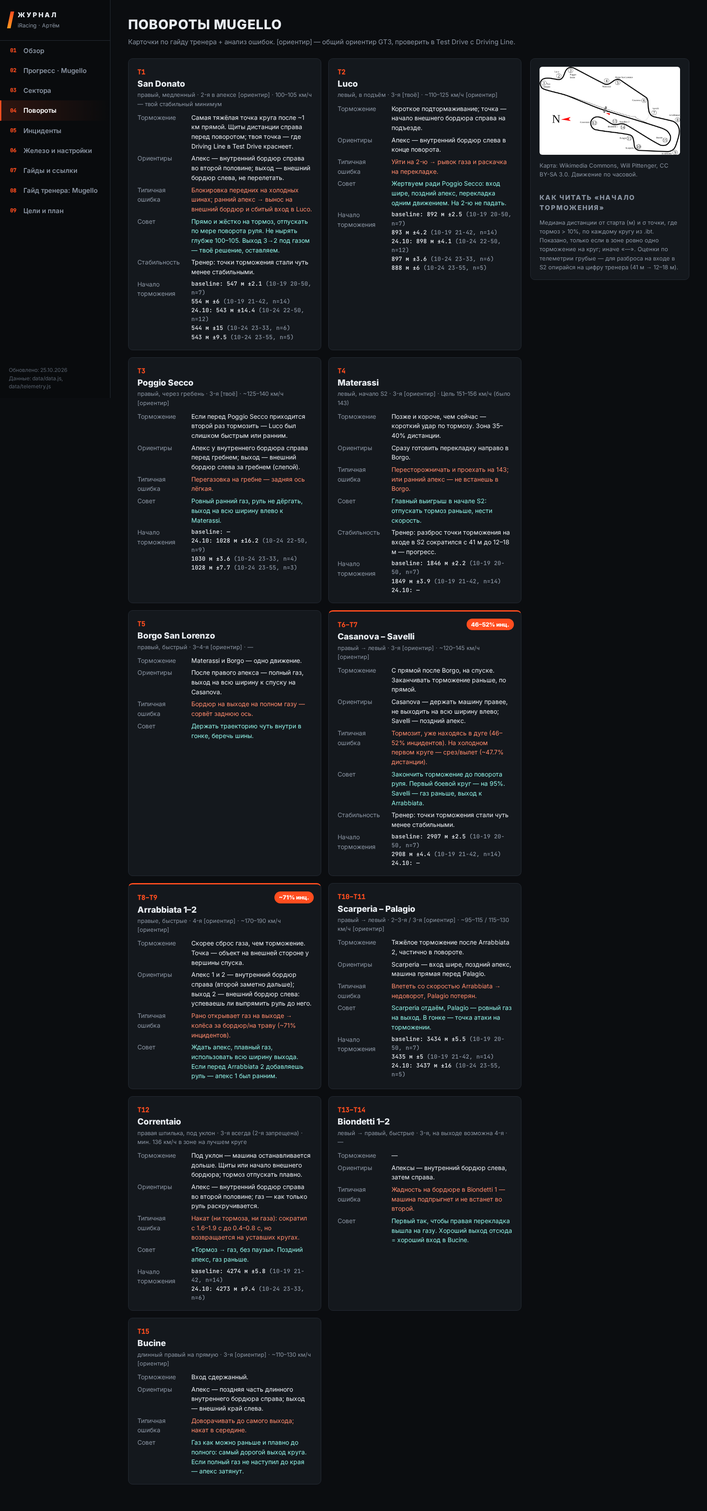
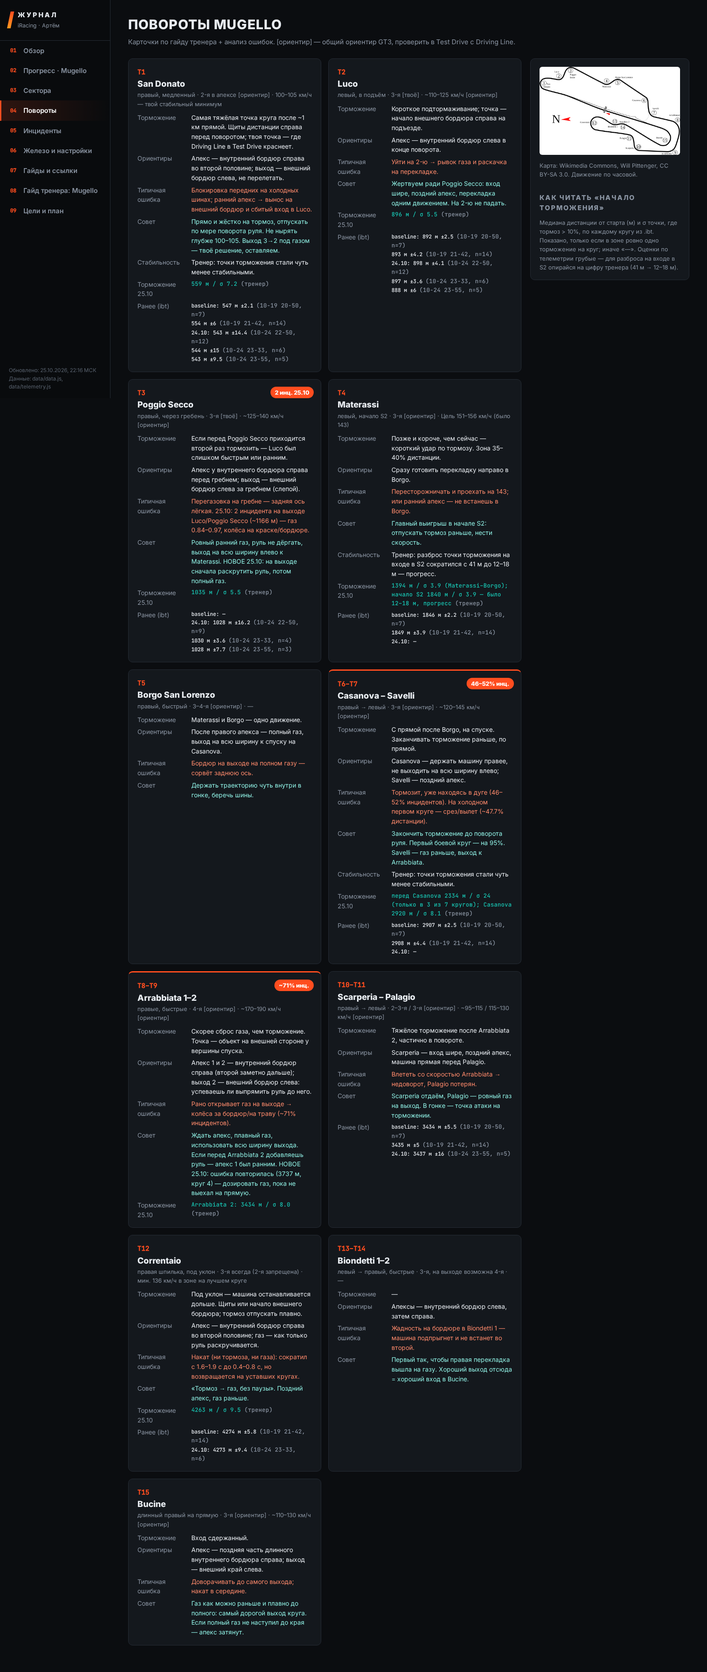
Сессия 25.10.2026: Mugello, данные тренера + телеметрия; to-do, FFB-предупреждение

diff --git a/data/data.js b/data/data.js
@@ -1,6 +1,6 @@
 // Основные данные журнала. Редактируй этот файл, чтобы обновить сайт. Время круга — строки "м:сс.ммм".
 window.JOURNAL = {
-  updated: "25.10.2026",
+  updated: "25.10.2026, 22:16 МСК",
   driver: { name: "Артём", sim: "iRacing (Steam)", simNote: "Пробовал ACC — не понравился." },
   car: "Mercedes-AMG GT3 Evo",
   series: "GT3 Regional Tour Europe (Fixed)",
@@ -25,10 +25,19 @@ window.JOURNAL = {
       { date: "19.10", drivingLine: false, best: "1:52.333", avg: "1:54.48", sigma: null, inc: 6 },
       { date: "20.10", drivingLine: false, best: "1:53.350", avg: "1:54.52", sigma: 0.59, inc: 6 },
       { date: "23.10", drivingLine: false, best: "1:51.967", avg: "1:53.46", sigma: null, inc: 5 },
-      { date: "24.10", drivingLine: false, best: "1:50.950", avg: "1:52.22", sigma: 0.71, inc: 0, note: "чистая серия 5 кругов, 0 инцидентов в серии" }
+      { date: "24.10", drivingLine: false, best: "1:50.950", avg: "1:52.22", sigma: 0.71, inc: 0, note: "чистая серия 5 кругов, 0 инцидентов в серии" },
+      { date: "25.10", drivingLine: false, lineLabel: "без линии (вероятно)", best: "1:51.117", bestClean: "1:52.317", avg: "1:53.21", sigma: 0.74, avgAll: "1:52.48", sigmaAll: 1.06, inc: 3, setup: "baseline.sto",
+        note: "лучший круг с инцидентом; лучший чистый 1:52.317; среднее по 4 чистым 1:53.21 (σ 0.74), по всем 7 — 1:52.48 (σ 1.06)",
+        laps: [ {t:"1:54.150",inc:false},{t:"1:53.700",inc:false},{t:"1:52.100",inc:true},{t:"1:51.267",inc:true},{t:"1:52.683",inc:false},{t:"1:52.317",inc:false},{t:"1:51.117",inc:true} ],
+        bestLapSectors: [39.933, 32.683, 38.500], bestSectors: [39.933, 32.250, 38.500], ideal: "1:50.683" }
     ]
   },
   incidents: {
+    session2510: [ // 25.10.2026, 3 инцидента по 1x
+      { where: "Выход Luco / Poggio Secco", dist: "~1166 м", laps: "круги 3 и 7", count: 2 },
+      { where: "Выход Arrabbiata", dist: "3737 м", laps: "круг 4", count: 1 }
+    ],
+    session2510Note: "Все — на газу 0.84–0.97, колёса на краске или бордюре.",
     summary: "Почти все инциденты — колёса за бордюр или на траву, а не потеря задней оси.",
     byCorner: [ // % инцидентов
       { corner: "Arrabbiata", pct: 71, pctLabel: "~71%", why: "Рано открывает газ на выходе", fix: "Ждать апекс, плавный газ, использовать всю ширину выхода" },
@@ -36,28 +45,38 @@ window.JOURNAL = {
     ],
     pctNote: "Проценты посчитаны тренером по разным выборкам сессий, поэтому в сумме дают больше 100%. Для Casanova на графике — середина диапазона 46–52%."
   },
+  latest: { date: "25.10.2026, 22:16 МСК", track: "Mugello", session: "Offline Testing", setup: "baseline.sto", line: "без линии (вероятно — по телеметрии не определить)" },
+  todo: [ // открытые задачи от тренера
+    { text: "Сила руля в iRacing: сейчас 12.05 Нм, клиппинг 50% — поставить 28–30 Нм (совет пока не применён)", warn: true },
+    { text: "Сетап: ездить на fixed.sto вместо baseline.sto", warn: true },
+    { text: "Выход из Poggio Secco: сначала раскрутить руль, потом полный газ" },
+    { text: "Arrabbiata: ошибка повторилась — дозировать газ, пока не выехал на прямую" },
+    { text: "S2 гуляет 32.25–33.5 с; стабильные 32.3 дадут ~0.7 с на круге" }
+  ],
+  ffbStatus: { date: "25.10.2026", strengthNm: 12.05, clippingPct: 50, applied: false },
   progressNotes: [
+    { type: "good", text: "25.10: начало S2 — разброс точки торможения 3.9 м (было 12–18 м, а ещё раньше 41 м). Прогресс." },
     { type: "good", text: "Вход в сектор 2: разброс точки торможения сократился с 41 м до 12–18 м." },
     { type: "warn", text: "San Donato и Casanova: точки торможения стали чуть менее стабильными." }
   ],
   corners: [ // карточки поворотов; turn = номер по официальной карте
-    { turn: "T1", name: "San Donato", dir: "правый, медленный", gear: "2-я в апексе [ориентир]", speed: "100–105 км/ч — твой стабильный минимум",
+    { turn: "T1", name: "San Donato", brake2510: "559 м / σ 7.2", dir: "правый, медленный", gear: "2-я в апексе [ориентир]", speed: "100–105 км/ч — твой стабильный минимум",
       braking: "Самая тяжёлая точка круга после ~1 км прямой. Щиты дистанции справа перед поворотом; твоя точка — где Driving Line в Test Drive краснеет.",
       ref: "Апекс — внутренний бордюр справа во второй половине; выход — внешний бордюр слева, не перелетать.",
       mistake: "Блокировка передних на холодных шинах; ранний апекс → вынос на внешний бордюр и сбитый вход в Luco.",
       advice: "Прямо и жёстко на тормоз, отпускать по мере поворота руля. Не нырять глубже 100–105. Выход 3→2 под газом — твоё решение, оставляем.",
       stability: "Тренер: точки торможения стали чуть менее стабильными.", tele: "San Donato", inc: null },
-    { turn: "T2", name: "Luco", dir: "левый, в подъём", gear: "3-я [твоё]", speed: "~110–125 км/ч [ориентир]",
+    { turn: "T2", name: "Luco", brake2510: "896 м / σ 5.5", dir: "левый, в подъём", gear: "3-я [твоё]", speed: "~110–125 км/ч [ориентир]",
       braking: "Короткое подтормаживание; точка — начало внешнего бордюра справа на подъезде.",
       ref: "Апекс — внутренний бордюр слева в конце поворота.",
       mistake: "Уйти на 2-ю → рывок газа и раскачка на перекладке.",
       advice: "Жертвуем ради Poggio Secco: вход шире, поздний апекс, перекладка одним движением. На 2-ю не падать.", tele: "Luco" },
-    { turn: "T3", name: "Poggio Secco", dir: "правый, через гребень", gear: "3-я [твоё]", speed: "~125–140 км/ч [ориентир]",
+    { turn: "T3", name: "Poggio Secco", brake2510: "1035 м / σ 5.5", dir: "правый, через гребень", gear: "3-я [твоё]", speed: "~125–140 км/ч [ориентир]",
       braking: "Если перед Poggio Secco приходится второй раз тормозить — Luco был слишком быстрым или ранним.",
       ref: "Апекс у внутреннего бордюра справа перед гребнем; выход — внешний бордюр слева за гребнем (слепой).",
-      mistake: "Перегазовка на гребне — задняя ось лёгкая.",
-      advice: "Ровный ранний газ, руль не дёргать, выход на всю ширину влево к Materassi.", tele: "Poggio Secco" },
-    { turn: "T4", name: "Materassi", dir: "левый, начало S2", gear: "3-я [ориентир]", speed: "Цель 151–156 км/ч (было 143)",
+      mistake: "Перегазовка на гребне — задняя ось лёгкая. 25.10: 2 инцидента на выходе Luco/Poggio Secco (~1166 м) — газ 0.84–0.97, колёса на краске/бордюре.",
+      advice: "Ровный ранний газ, руль не дёргать, выход на всю ширину влево к Materassi. НОВОЕ 25.10: на выходе сначала раскрутить руль, потом полный газ.", inc2510: "2 инц. 25.10", tele: "Poggio Secco" },
+    { turn: "T4", name: "Materassi", brake2510: "1394 м / σ 3.9 (Materassi–Borgo); начало S2 1840 м / σ 3.9 — было 12–18 м, прогресс", dir: "левый, начало S2", gear: "3-я [ориентир]", speed: "Цель 151–156 км/ч (было 143)",
       braking: "Позже и короче, чем сейчас — короткий удар по тормозу. Зона 35–40% дистанции.",
       ref: "Сразу готовить перекладку направо в Borgo.",
       mistake: "Пересторожничать и проехать на 143; или ранний апекс — не встанешь в Borgo.",
@@ -66,23 +85,23 @@ window.JOURNAL = {
     { turn: "T5", name: "Borgo San Lorenzo", dir: "правый, быстрый", gear: "3–4-я [ориентир]", speed: "—",
       braking: "Materassi и Borgo — одно движение.", ref: "После правого апекса — полный газ, выход на всю ширину к спуску на Casanova.",
       mistake: "Бордюр на выходе на полном газу — сорвёт заднюю ось.", advice: "Держать траекторию чуть внутри в гонке, беречь шины." },
-    { turn: "T6–T7", name: "Casanova – Savelli", dir: "правый → левый", gear: "3-я [ориентир]", speed: "~120–145 км/ч [ориентир]",
+    { turn: "T6–T7", name: "Casanova – Savelli", brake2510: "перед Casanova 2334 м / σ 24 (только в 3 из 7 кругов); Casanova 2920 м / σ 8.1", dir: "правый → левый", gear: "3-я [ориентир]", speed: "~120–145 км/ч [ориентир]",
       braking: "С прямой после Borgo, на спуске. Заканчивать торможение раньше, по прямой.",
       ref: "Casanova — держать машину правее, не выходить на всю ширину влево; Savelli — поздний апекс.",
       mistake: "Тормозит, уже находясь в дуге (46–52% инцидентов). На холодном первом круге — срез/вылет (~47.7% дистанции).",
       advice: "Закончить торможение до поворота руля. Первый боевой круг — на 95%. Savelli — газ раньше, выход к Arrabbiata.",
       stability: "Тренер: точки торможения стали чуть менее стабильными.", tele: "Casanova", inc: "46–52%" },
-    { turn: "T8–T9", name: "Arrabbiata 1–2", dir: "правые, быстрые", gear: "4-я [ориентир]", speed: "~170–190 км/ч [ориентир]",
+    { turn: "T8–T9", name: "Arrabbiata 1–2", brake2510: "Arrabbiata 2: 3434 м / σ 8.0", dir: "правые, быстрые", gear: "4-я [ориентир]", speed: "~170–190 км/ч [ориентир]",
       braking: "Скорее сброс газа, чем торможение. Точка — объект на внешней стороне у вершины спуска.",
       ref: "Апекс 1 и 2 — внутренний бордюр справа (второй заметно дальше); выход 2 — внешний бордюр слева: успеваешь ли выпрямить руль до него.",
       mistake: "Рано открывает газ на выходе → колёса за бордюр/на траву (~71% инцидентов).",
-      advice: "Ждать апекс, плавный газ, использовать всю ширину выхода. Если перед Arrabbiata 2 добавляешь руль — апекс 1 был ранним.", inc: "~71%" },
+      advice: "Ждать апекс, плавный газ, использовать всю ширину выхода. Если перед Arrabbiata 2 добавляешь руль — апекс 1 был ранним. НОВОЕ 25.10: ошибка повторилась (3737 м, круг 4) — дозировать газ, пока не выехал на прямую.", inc: "~71%" },
     { turn: "T10–T11", name: "Scarperia – Palagio", dir: "правый → левый", gear: "2–3-я / 3-я [ориентир]", speed: "~95–115 / 115–130 км/ч [ориентир]",
       braking: "Тяжёлое торможение после Arrabbiata 2, частично в повороте.",
       ref: "Scarperia — вход шире, поздний апекс, машина прямая перед Palagio.",
       mistake: "Влететь со скоростью Arrabbiata → недоворот, Palagio потерян.",
       advice: "Scarperia отдаём, Palagio — ровный газ на выход. В гонке — точка атаки на торможении.", tele: "Arrabbiata 2 / Scarperia" },
-    { turn: "T12", name: "Correntaio", dir: "правая шпилька, под уклон", gear: "3-я всегда (2-я запрещена)", speed: "мин. 136 км/ч в зоне на лучшем круге",
+    { turn: "T12", name: "Correntaio", brake2510: "4263 м / σ 9.5", dir: "правая шпилька, под уклон", gear: "3-я всегда (2-я запрещена)", speed: "мин. 136 км/ч в зоне на лучшем круге",
       braking: "Под уклон — машина останавливается дольше. Щиты или начало внешнего бордюра; тормоз отпускать плавно.",
       ref: "Апекс — внутренний бордюр справа во второй половине; газ — как только руль раскручивается.",
       mistake: "Накат (ни тормоза, ни газа): сократил с 1.6–1.9 с до 0.4–0.8 с, но возвращается на уставших кругах.",
@@ -125,6 +144,7 @@ window.JOURNAL = {
   ],
   goals: [
     { text: "Выучить ориентиры без Driving Line", status: "now" },
+    { text: "Стабильный S2 ~32.3 с (сейчас 32.25–33.5) — ~0.7 с на круге", status: "now" },
     { text: "Стабильно ~1:49 на Mugello (сериями, а не одним кругом)", status: "next" },
     { text: "Покататься на разных трассах, набраться опыта", status: "now" },
     { text: "Первая гонка в GT3 Europe — без давления (сезон в шиномонтаже, катает мало)", status: "later" },

diff --git a/app.js b/app.js
@@ -23,7 +23,8 @@ overview(){const s=J.stats,c=s.career,ses=J.mugello.sessions,last=ses[ses.length
   <div class="card teal"><div class="k">iRating</div><div class="v">${s.iRating}</div><div class="note">на ${s.date} · ${s.season}</div></div>
   <div class="card teal"><div class="k">Safety Rating</div><div class="v">${s.sr} <small>${s.licenseClass}</small></div><div class="note">ttRating ${s.ttRating} · на ${s.date}</div></div>
  </div>
- <div class="insight">Ключевой вывод: <span>средний чистый круг и стабильность важнее лучшего круга.</span> Последняя сессия (${last.date}): лучший ${last.best}, средний ${last.avg} (σ ${last.sigma}), ${last.inc} инцидентов в чистой серии.</div>
+ <div class="insight">Ключевой вывод: <span>средний чистый круг и стабильность важнее лучшего круга.</span> Последняя сессия (${J.latest.date}, ${J.latest.setup}, ${J.latest.line}): лучший ${last.best} (с инцидентом), лучший чистый ${last.bestClean}, средний чистый ${last.avg} (σ ${last.sigma}), инцидентов ${last.inc}.</div>
+ <h2>To-do от тренера</h2><div class="card">${J.todo.map(t=>`<div class="goal"><span class="dot ${t.warn?'now':'next'}"></span><div style="flex:1">${t.warn?'⚠ ':''}${t.text}</div>${t.warn?'<span class="tag off">не сделано</span>':''}</div>`).join('')}</div>
  <div class="grid g2">
   <div><h2>Лучший круг по трассам</h2><table><tr><th>Трасса</th><th>Лучший</th><th>Примечание</th></tr>
    ${J.bestLaps.map(b=>`<tr><td>${b.track}</td><td class="n">${b.best||'—'}</td><td>${b.best?b.note:'<span class="note">ещё не ездил / данные появятся</span>'}</td></tr>`).join('')}</table></div>
@@ -36,7 +37,7 @@ overview(){const s=J.stats,c=s.career,ses=J.mugello.sessions,last=ses[ses.length
 progress(){const S=J.mugello.sessions;
  app.innerHTML=H('Прогресс · Mugello',`${J.car} · 5191 м · данные тренера`)+`
  <table><tr><th>Дата</th><th>Driving Line</th><th>Лучший круг</th><th>Средний чистый</th><th>σ, с</th><th>Инциденты</th><th>Примечание</th></tr>
- ${S.map(s=>`<tr><td>${s.date}</td><td><span class="tag ${s.drivingLine?'on':'off'}">${s.drivingLine?'с линией':'без линии'}</span></td><td class="n">${s.best}</td><td class="n">${s.avg||'—'}</td><td class="n">${s.sigma??'—'}</td><td class="n">${s.inc??'—'}</td><td class="note">${s.note||''}</td></tr>`).join('')}</table>
+ ${S.map(s=>`<tr><td>${s.date}</td><td><span class="tag ${s.drivingLine?'on':'off'}">${s.lineLabel||(s.drivingLine?'с линией':'без линии')}</span></td><td class="n">${s.best}</td><td class="n">${s.avg||'—'}</td><td class="n">${s.sigma??'—'}</td><td class="n">${s.inc??'—'}</td><td class="note">${s.note||''}</td></tr>`).join('')}</table>
  <h2>Лучший и средний круг по сессиям</h2><div class="chartbox" id="c1"></div>
  <div class="note">Пунктир: baseline с линией ${J.mugello.baseline} и цель ~1:49.000. Чем ниже — тем быстрее.</div>
  <h2>Заметки</h2><ul class="list">${J.progressNotes.map(n=>`<li class="${n.type}">${n.text}</li>`).join('')}</ul>
@@ -45,6 +46,7 @@ progress(){const S=J.mugello.sessions;
  chart(document.getElementById('c1'),{type:'line',data:{labels:L,datasets:[
   {label:'Лучший круг',data:S.map(s=>toS(s.best)),borderColor:'#ff4d1f',backgroundColor:'#ff4d1f',tension:.2,pointRadius:5},
   {label:'Средний чистый',data:S.map(s=>toS(s.avg)),borderColor:'#18c3b1',backgroundColor:'#18c3b1',tension:.2,pointRadius:5,spanGaps:true},
+  {label:'Лучший чистый',data:S.map(s=>toS(s.bestClean)),borderColor:'#b06cff',backgroundColor:'#b06cff',pointRadius:6,showLine:false},
   {label:'Baseline 1:49.250',data:S.map(()=>toS(J.mugello.baseline)),borderColor:'#ffb020',borderDash:[6,6],pointRadius:0},
   {label:'Цель ~1:49',data:S.map(()=>toS(J.mugello.target)),borderColor:'#3ccf6e',borderDash:[2,4],pointRadius:0}]},
   options:{maintainAspectRatio:false,scales:{y:{ticks:{callback:v=>fmt(v,1)}}},plugins:{tooltip:{callbacks:{label:c=>c.dataset.label+': '+fmt(c.parsed.y)}}}}})},
@@ -60,20 +62,21 @@ sectors(){if(!TM||!TM.sessions){app.innerHTML=H('Сектора')+'<div class="p
  chart(document.getElementById('c2'),{type:'bar',data:{labels:L,datasets:[0,1,2].map(k=>({label:'S'+(k+1),data:TM.sessions.map(s=>s.bestLap.sectors[k]),backgroundColor:col[k]}))},options:{maintainAspectRatio:false,scales:{y:{min:30,title:{display:true,text:'секунды'}}}}});
  const b=TM.sessions[0].bestSectors;
  chart(document.getElementById('c3'),{type:'bar',data:{labels:L.slice(1),datasets:[0,1,2].map(k=>({label:'S'+(k+1),data:TM.sessions.slice(1).map(s=>+(s.bestSectors[k]-b[k]).toFixed(3)),backgroundColor:col[k]}))},options:{maintainAspectRatio:false}})},
-corners(){const last=TM?TM.sessions[TM.sessions.length-1]:null,base=TM?TM.sessions[0]:null;
+corners(){const prev=TM?TM.sessions.find(s=>s.name.startsWith('24.10')):null,base=TM?TM.sessions[0]:null;
  const br=(s,z)=>{const a=s&&s.braking[z];return a?a.map(x=>`${x.median_m} м ±${x.sd_m} <span class="note">(${x.file.slice(5,16)}, n=${x.n})</span>`).join('<br>'):'—'};
  app.innerHTML=H('Повороты Mugello','Карточки по гайду тренера + анализ ошибок. [ориентир] — общий ориентир GT3, проверить в Test Drive с Driving Line.')+`
  <div style="display:grid;grid-template-columns:1fr 360px;gap:20px;align-items:start"><div class="grid g2">
- ${J.corners.map(c=>`<div class="card corner ${c.inc?'acc':''}">${c.inc?`<div class="badge">${c.inc} инц.</div>`:''}<span class="t">${c.turn}</span><h3>${c.name}</h3><div class="d">${c.dir} · ${c.gear} · ${c.speed}</div>
+ ${J.corners.map(c=>`<div class="card corner ${c.inc?'acc':''}">${c.inc||c.inc2510?`<div class="badge">${c.inc?c.inc+' инц.':c.inc2510}</div>`:''}<span class="t">${c.turn}</span><h3>${c.name}</h3><div class="d">${c.dir} · ${c.gear} · ${c.speed}</div>
   <dl><dt>Торможение</dt><dd>${c.braking}</dd><dt>Ориентиры</dt><dd>${c.ref}</dd><dt>Типичная ошибка</dt><dd class="err">${c.mistake}</dd><dt>Совет</dt><dd class="adv">${c.advice}</dd>
   ${c.stability?`<dt>Стабильность</dt><dd>${c.stability}</dd>`:''}
-  ${c.tele?`<dt>Начало торможения</dt><dd class="mono" style="font-size:13px">baseline: ${br(base,c.tele)}<br>24.10: ${br(last,c.tele)}</dd>`:''}</dl></div>`).join('')}
+  ${c.brake2510?`<dt>Торможение 25.10</dt><dd class="mono" style="font-size:13px;color:#18c3b1">${c.brake2510} <span class="note">(тренер)</span></dd>`:''}${c.tele?`<dt>Ранее (ibt)</dt><dd class="mono" style="font-size:12px">baseline: ${br(base,c.tele)}<br>24.10: ${br(prev,c.tele)}</dd>`:''}</dl></div>`).join('')}
  </div><div class="card" style="position:sticky;top:20px"><img src="guides/img/mugello-map-15-turns.png" style="width:100%;background:#fff;border-radius:6px"><div class="note">Карта: Wikimedia Commons, Will Pittenger, CC BY-SA 3.0. Движение по часовой.</div>
  <h2>Как читать «начало торможения»</h2><div class="note">Медиана дистанции от старта (м) и σ точки, где тормоз > 10%, по каждому кругу из .ibt. Показано, только если в зоне ровно одно торможение на круг; иначе «—». Оценки по телеметрии грубые — для разброса на входе в S2 опирайся на цифру тренера (41 м → 12–18 м).</div></div></div>`},
 incidents(){const I=J.incidents;
  app.innerHTML=H('Инциденты','Где и почему')+`<div class="insight">${I.summary}</div>
  <div class="grid g2"><div class="chartbox" id="c4"></div><div>${I.byCorner.map(b=>`<div class="card acc" style="margin-bottom:16px"><div class="k">${b.corner} · ${b.pctLabel} инцидентов</div><div style="margin:8px 0"><b>Почему:</b> <span style="color:#ff8a6b">${b.why}</span></div><div><b>Что делать:</b> <span style="color:#8ff0e4">${b.fix}</span></div></div>`).join('')}</div></div>
  <div class="note">${I.pctNote}</div>
+ <h2>25.10.2026 — где были инциденты</h2><table><tr><th>Место</th><th>Дистанция</th><th>Круги</th><th>Кол-во</th></tr>${I.session2510.map(x=>`<tr><td>${x.where}</td><td class="n">${x.dist}</td><td>${x.laps}</td><td class="n">${x.count}</td></tr>`).join('')}</table><div class="note">${I.session2510Note}</div>
  <h2>Инциденты по сессиям (данные тренера)</h2><div class="chartbox" id="c5" style="height:280px"></div>`;
  chart(document.getElementById('c4'),{type:'bar',data:{labels:I.byCorner.map(b=>b.corner),datasets:[{label:'% инцидентов',data:I.byCorner.map(b=>b.pct),backgroundColor:['#ff4d1f','#ffb020']}]},options:{indexAxis:'y',maintainAspectRatio:false,scales:{x:{max:100,ticks:{callback:v=>v+'%'}}},plugins:{legend:{display:false},tooltip:{callbacks:{label:c=>I.byCorner[c.dataIndex].pctLabel}}}}});
  const S=J.mugello.sessions.filter(s=>s.inc!=null);
@@ -85,8 +88,8 @@ hardware(){const h=J.hardware,t=rows=>`<table>${rows.map(r=>`<tr><td style="colo
  <div class="grid g3">${h.upgrades.map((u,i)=>`<div class="card acc"><div class="prio">${i+1}</div><div style="font-weight:700;font-size:17px;margin-bottom:6px">${u.title}</div><div class="note" style="font-size:14px">${u.text}</div></div>`).join('')}</div>
  <div class="note" style="margin-top:10px">⛔ ${h.upgradesNote}</div>
  <div class="grid g2" style="margin-top:20px"><div class="card teal"><div class="k">Угол поворота: почему 900°</div><div style="margin-top:8px">${h.rotationNote}</div></div>
- <div class="card teal"><div class="k">Напоминание по настройкам</div><div style="margin-top:8px;font-weight:600">${h.reminder}</div></div></div>
- <h2>Совет тренера по FFB</h2><div class="card acc"><ul class="list">${h.advice.map(a=>`<li>${a}</li>`).join('')}</ul></div>`},
+ <div class="card acc"><div class="k">FFB — совет тренера (не применён)</div><div style="margin-top:8px;font-weight:600">${h.reminder}</div>
+ <div style="margin-top:10px" class="warn">⚠ На ${J.ffbStatus.date}: сила руля всё ещё ${J.ffbStatus.strengthNm} Нм, клиппинг ${J.ffbStatus.clippingPct}%.</div><div class="note">Альтернатива — Auto в iRacing.</div></div></div>`},
 guides(){app.innerHTML=H('Гайды и ссылки')+`<div class="grid g3">${J.guides.map(g=>`<a class="card teal" style="text-decoration:none;color:inherit" href="${g.url}" ${g.url.startsWith('#')?'':'target="_blank" rel="noopener"'}><div style="font-weight:700;font-size:17px">${g.name}</div><div class="note">${g.url.startsWith('#')?'Открыть в журнале':g.url}</div></a>`).join('')}</div>
  <h2>Чеклист перед сессией</h2><div class="card"><ol class="list">${J.checklist.map(c=>`<li>${c}</li>`).join('')}</ol></div>`},
 guide(){app.innerHTML=H('Гайд тренера: Mugello','Mercedes-AMG GT3 · guides/mugello-mercedes-gt3-guide.md')+'<div class="md" id="md">Загрузка…</div>';

diff --git a/data/telemetry.js b/data/telemetry.js
@@ -1102,6 +1102,156 @@ window.TELEMETRY = {
      }
     ]
    }
+  },
+  {
+   "name": "25.10 — без линии (вероятно)",
+   "drivingLine": false,
+   "laps": [
+    {
+     "lap": 1,
+     "time": 114.15,
+     "sectors": [
+      41.083,
+      33.517,
+      39.55
+     ],
+     "inc": 0,
+     "valid": true,
+     "file": "2026-10-25 22-16-23"
+    },
+    {
+     "lap": 2,
+     "time": 113.7,
+     "sectors": [
+      41.033,
+      32.833,
+      39.833
+     ],
+     "inc": 0,
+     "valid": true,
+     "file": "2026-10-25 22-16-23"
+    },
+    {
+     "lap": 3,
+     "time": 112.1,
+     "sectors": [
+      40.567,
+      32.733,
+      38.8
+     ],
+     "inc": 1,
+     "valid": false,
+     "file": "2026-10-25 22-16-23"
+    },
+    {
+     "lap": 4,
+     "time": 111.267,
+     "sectors": [
+      40.1,
+      32.25,
+      38.917
+     ],
+     "inc": 1,
+     "valid": false,
+     "file": "2026-10-25 22-16-23"
+    },
+    {
+     "lap": 5,
+     "time": 112.683,
+     "sectors": [
+      40.4,
+      33.283,
+      39.0
+     ],
+     "inc": 0,
+     "valid": true,
+     "file": "2026-10-25 22-16-23"
+    },
+    {
+     "lap": 6,
+     "time": 112.317,
+     "sectors": [
+      40.417,
+      33.283,
+      38.617
+     ],
+     "inc": 0,
+     "valid": true,
+     "file": "2026-10-25 22-16-23"
+    },
+    {
+     "lap": 7,
+     "time": 111.117,
+     "sectors": [
+      39.933,
+      32.683,
+      38.5
+     ],
+     "inc": 1,
+     "valid": false,
+     "file": "2026-10-25 22-16-23"
+    }
+   ],
+   "bestLap": {
+    "lap": 7,
+    "time": 111.117,
+    "sectors": [
+     39.933,
+     32.683,
+     38.5
+    ],
+    "inc": 1,
+    "valid": false,
+    "file": "2026-10-25 22-16-23"
+   },
+   "bestSectors": [
+    39.933,
+    32.25,
+    38.5
+   ],
+   "ideal": 110.683,
+   "braking": {
+    "San Donato": [
+     {
+      "n": 7,
+      "median_m": 559,
+      "sd_m": 7.2,
+      "file": "2026-10-25 22-16-23"
+     }
+    ],
+    "Luco": [
+     {
+      "n": 7,
+      "median_m": 896,
+      "sd_m": 5.5,
+      "file": "2026-10-25 22-16-23"
+     }
+    ],
+    "Arrabbiata 2 / Scarperia": [
+     {
+      "n": 7,
+      "median_m": 3434,
+      "sd_m": 8.0,
+      "file": "2026-10-25 22-16-23"
+     }
+    ],
+    "Correntaio": [
+     {
+      "n": 7,
+      "median_m": 4263,
+      "sd_m": 9.5,
+      "file": "2026-10-25 22-16-23"
+     }
+    ],
+    "Poggio Secco": [
+     {
+      "n": 3,
+      "median_m": 1035,
+      "sd_m": 5.5,
+      "file": "2026-10-25 22-16-23"
+     }
+    ]
+   }
   }
  ]
 };

diff --git a/tools/build_telemetry.py b/tools/build_telemetry.py
@@ -3,7 +3,7 @@ import json
 d=json.load(open('tools/telemetry_extract.json'))
 G=[("19.10 — с Driving Line (baseline)",True,["2026-10-19 20-50","2026-10-19 21-42"]),
    ("19.10 — без линии",False,["2026-10-19 23-05","2026-10-19 23-26"]),
-   ("20.10 — без линии",False,["2026-10-20"]),("23.10 — без линии",False,["2026-10-23"]),("24.10 — без линии",False,["2026-10-24"])]
+   ("20.10 — без линии",False,["2026-10-20"]),("23.10 — без линии",False,["2026-10-23"]),("24.10 — без линии",False,["2026-10-24"]),("25.10 — без линии (вероятно)",False,["2026-10-25"])]
 out=[]
 for name,line,keys in G:
   fs=[s for s in d if any(k in s['file'] for k in keys) and s['laps']]
